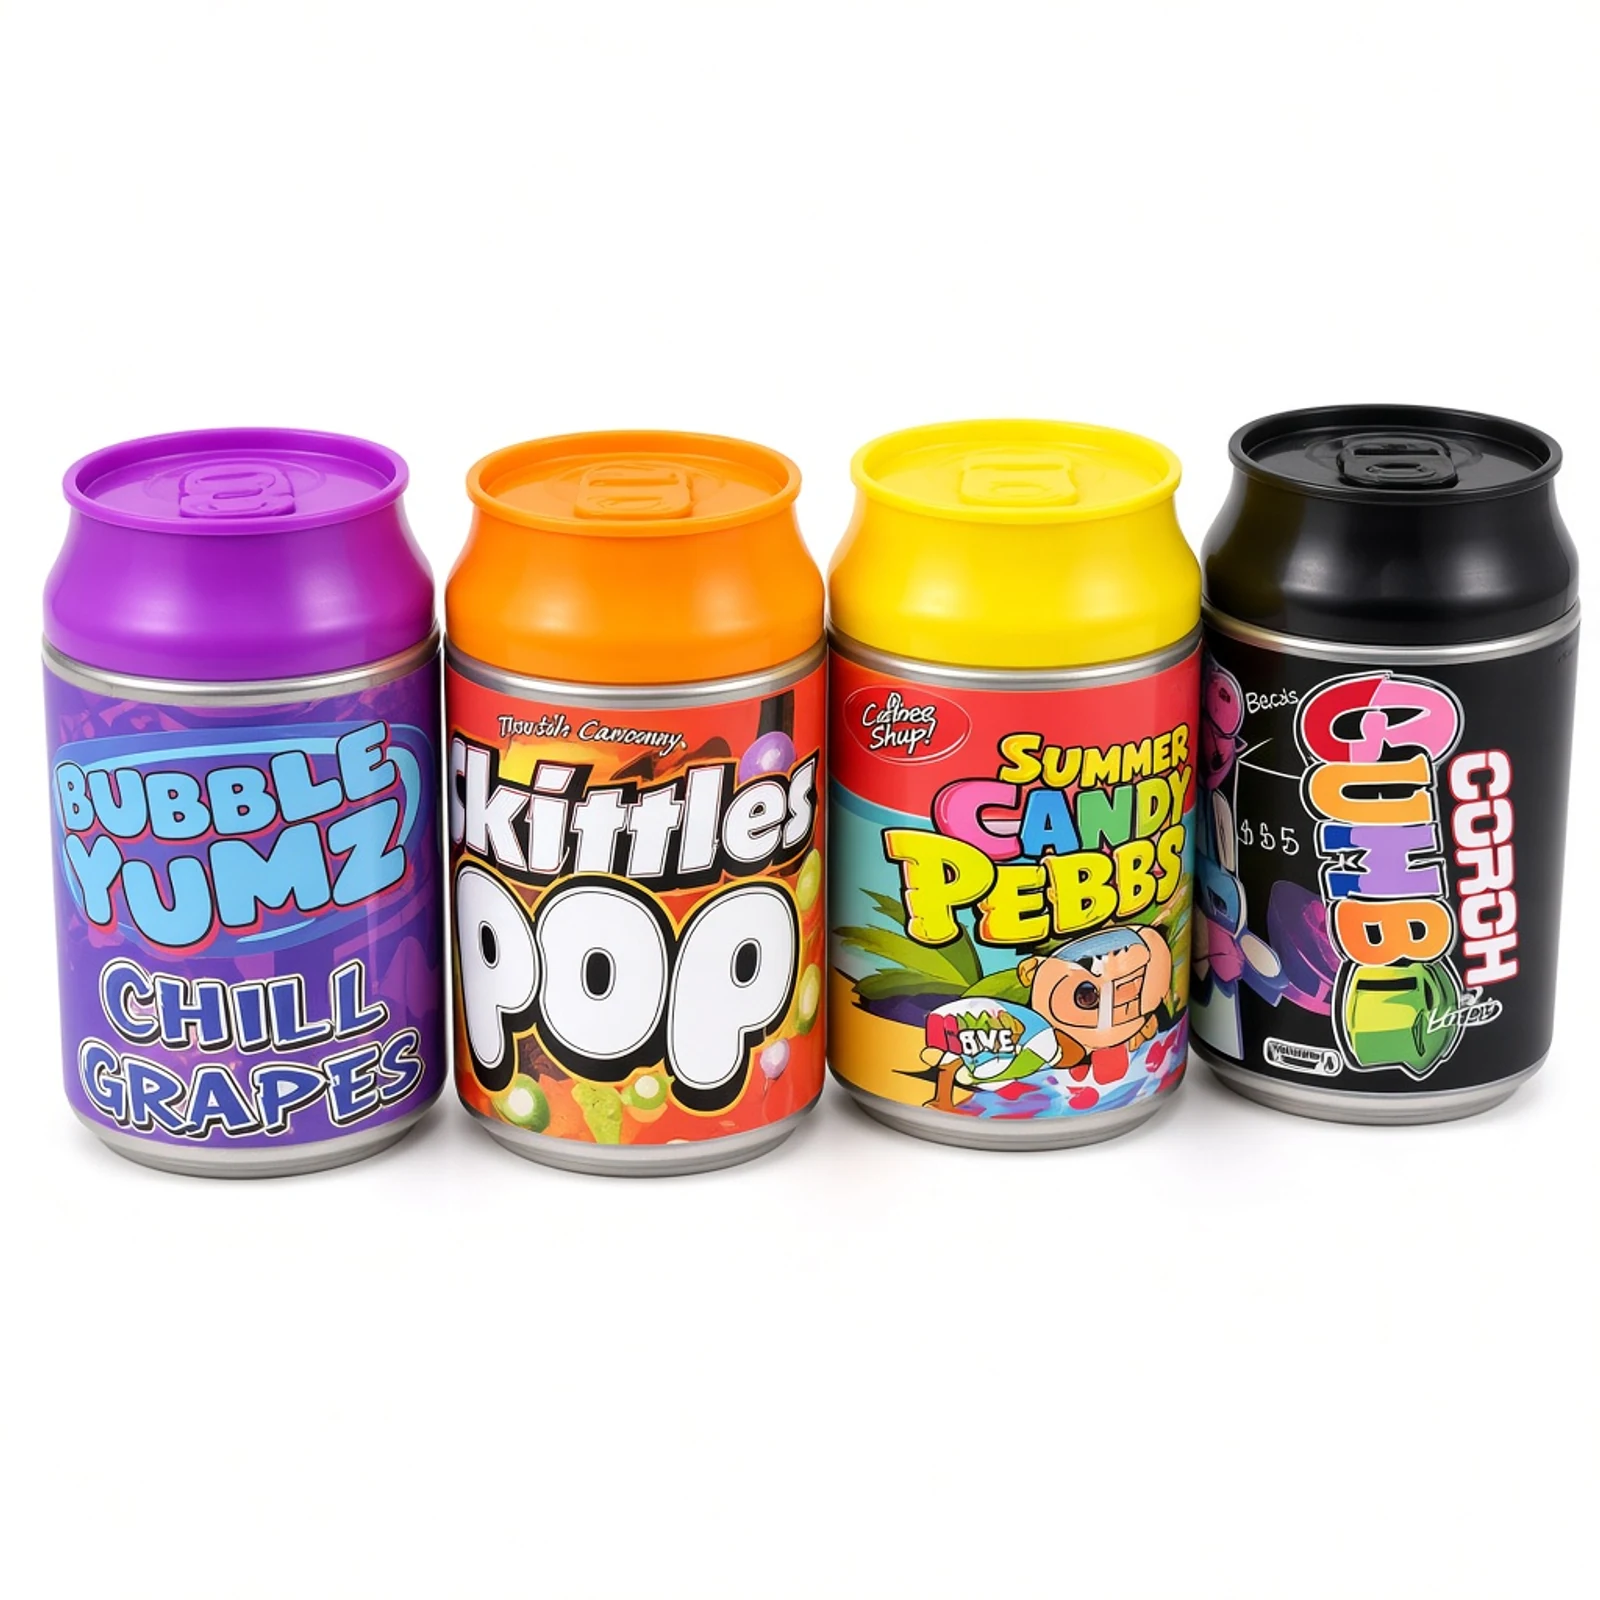
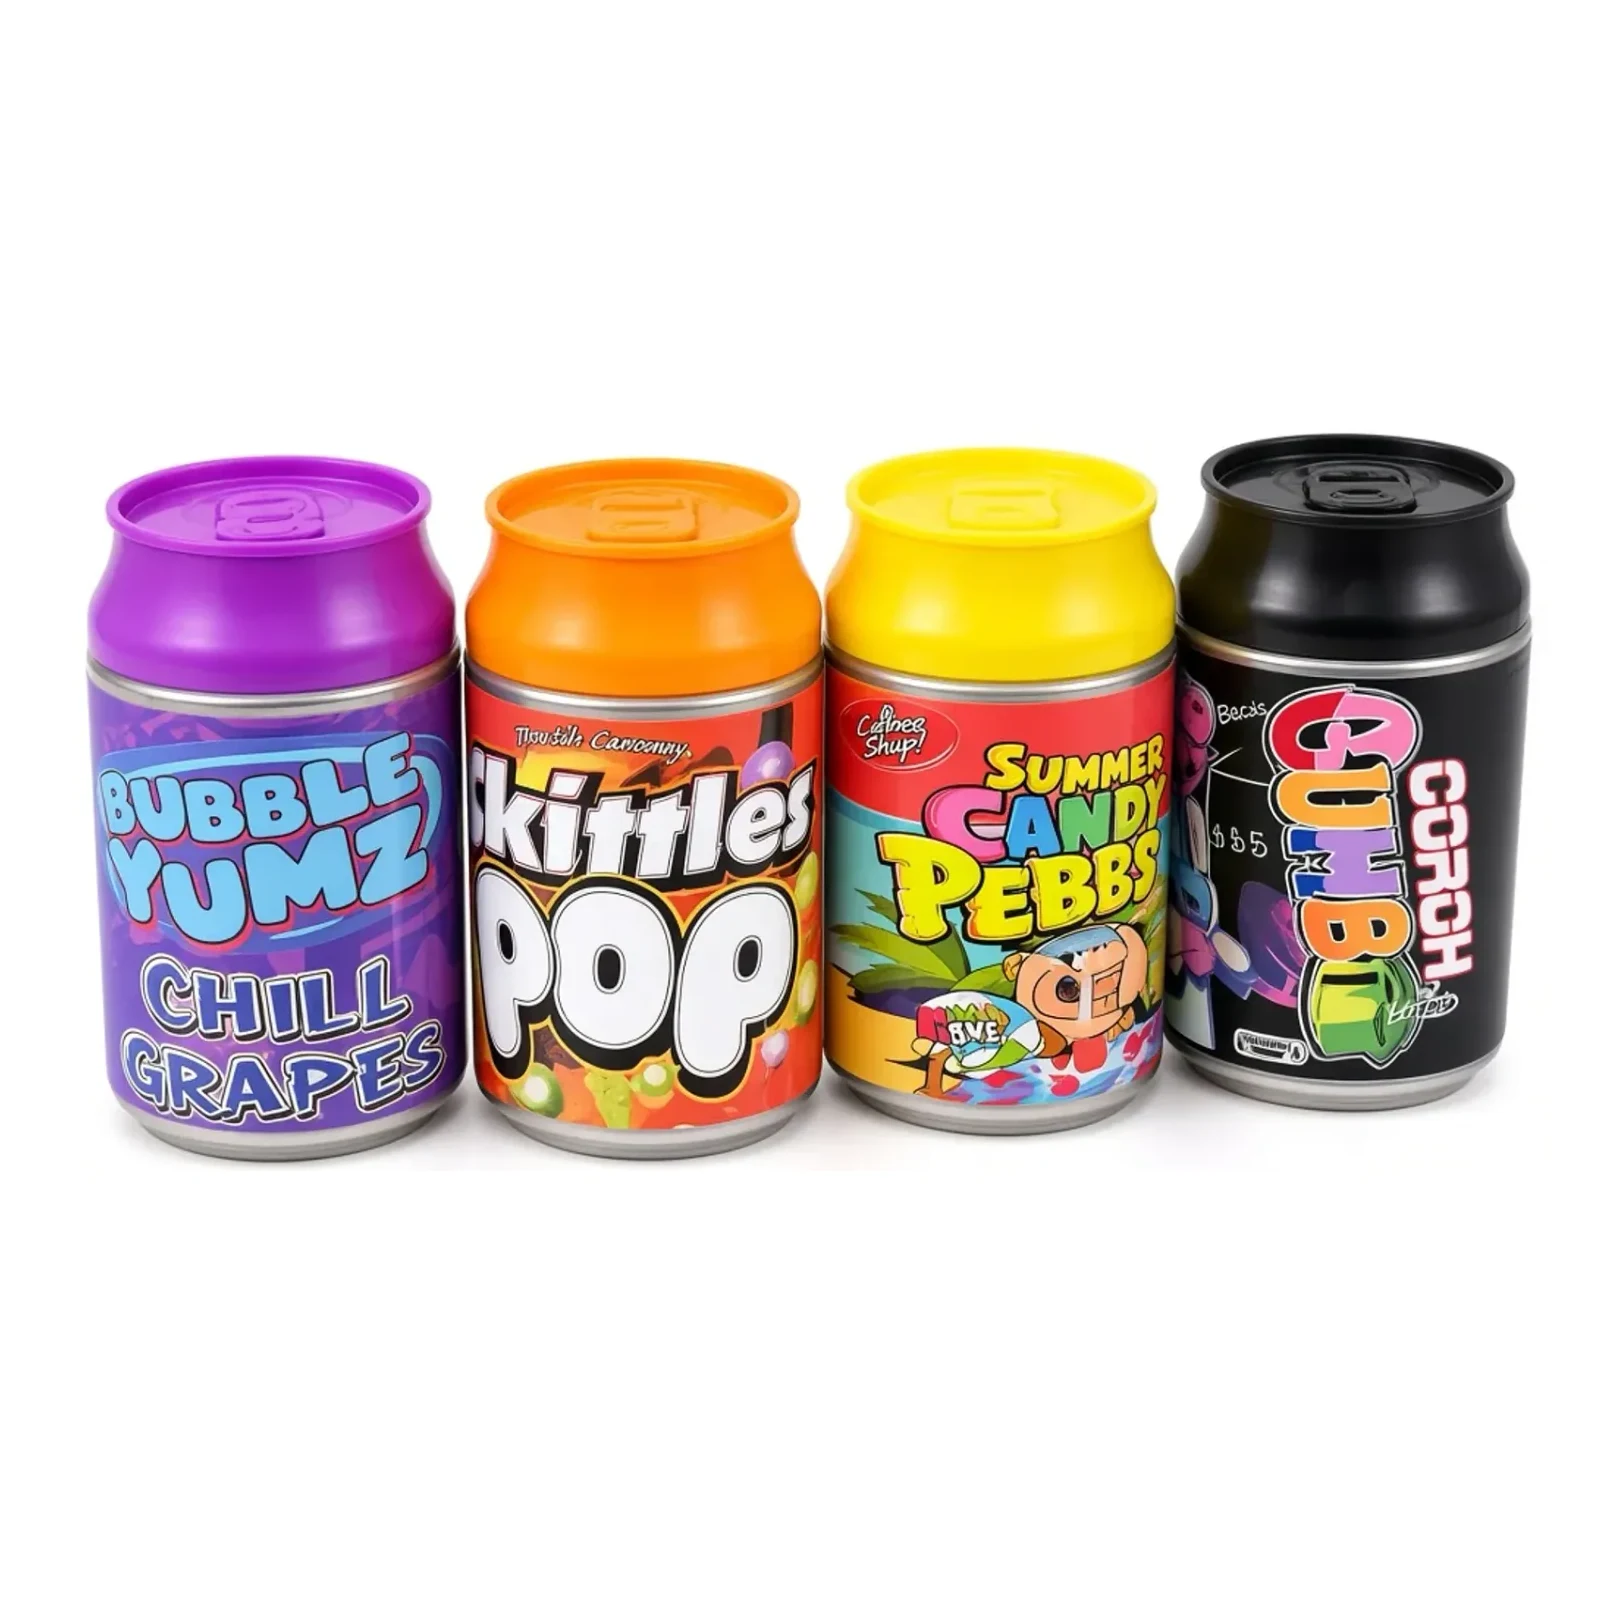
Make shop product photos fill the frame and add a prominent Stripe Pay Now button.

Changed region(s): [[0.0, 0.25, 1.0, 0.75]]

diff --git a/src/app/checkout/page.tsx b/src/app/checkout/page.tsx
@@ -9,6 +9,7 @@ import { useCart } from "@/context/CartContext";
 import { formatPrice } from "@/lib/utils";
 import { productImageClass } from "@/lib/product";
 import { whatsappOrderNumber } from "@/data/social";
+import { STRIPE_PAYMENT_LINK } from "@/lib/payments";
 
 export default function CheckoutPage() {
   const { items, subtotal, clearCart } = useCart();
@@ -65,6 +66,9 @@ export default function CheckoutPage() {
       total,
     };
     sessionStorage.setItem("calipacks-last-order", JSON.stringify(order));
+    if (STRIPE_PAYMENT_LINK) {
+      window.open(STRIPE_PAYMENT_LINK, "_blank", "noopener,noreferrer");
+    }
     clearCart();
     router.push("/checkout/success");
   };
@@ -174,11 +178,17 @@ export default function CheckoutPage() {
             <button
               type="submit"
               disabled={submitting}
-              className="w-full flex items-center justify-center gap-2 px-6 py-4 bg-brand-600 text-white font-semibold rounded-xl hover:bg-brand-500 transition-colors"
+              className="w-full flex items-center justify-center gap-2 px-6 py-4 rounded-xl bg-gradient-to-r from-[#635BFF] via-[#7A73FF] to-brand-600 text-white font-black shadow-[0_10px_28px_rgba(99,91,255,0.4)] hover:brightness-110 transition"
             >
               <CreditCard className="w-5 h-5" />
-              {submitting ? "Placing order…" : "Place order online"}
+              {submitting ? "Processing…" : "Pay Now"}
+              <span className="rounded-md bg-white/15 px-1.5 py-0.5 text-[10px] font-black tracking-wide">
+                Stripe
+              </span>
             </button>
+            <p className="text-center text-xs font-semibold text-surface-800/45">
+              Secure card checkout with Stripe.
+            </p>
 
             <a
               href={whatsappHref}

diff --git a/src/components/payments/PayNowButton.tsx b/src/components/payments/PayNowButton.tsx
@@ -1,0 +1,43 @@
+import Link from "next/link";
+import { CreditCard } from "lucide-react";
+import { cn } from "@/lib/utils";
+import { STRIPE_PAYMENT_LINK } from "@/lib/payments";
+
+interface PayNowButtonProps {
+  href?: string;
+  className?: string;
+  compact?: boolean;
+}
+
+export function PayNowButton({
+  href,
+  className,
+  compact = false,
+}: PayNowButtonProps) {
+  const target = href || STRIPE_PAYMENT_LINK || "/checkout";
+  const external = target.startsWith("http");
+
+  return (
+    <Link
+      href={target}
+      {...(external ? { target: "_blank", rel: "noopener noreferrer" } : {})}
+      className={cn(
+        "pay-now-btn inline-flex items-center justify-center gap-2 rounded-xl bg-gradient-to-r from-[#635BFF] via-[#7A73FF] to-brand-600 font-black text-white shadow-[0_10px_28px_rgba(99,91,255,0.4)] transition hover:brightness-110 hover:-translate-y-0.5",
+        compact ? "px-3 py-2.5 text-xs sm:px-3.5 sm:text-sm" : "w-full px-6 py-4 text-base",
+        className
+      )}
+      aria-label="Pay now with Stripe"
+    >
+      <CreditCard className={compact ? "h-4 w-4 shrink-0" : "h-5 w-5 shrink-0"} />
+      <span>Pay Now</span>
+      <span
+        className={cn(
+          "rounded-md bg-white/15 px-1.5 font-black tracking-wide text-white/95",
+          compact ? "py-0.5 text-[9px]" : "py-0.5 text-[10px]"
+        )}
+      >
+        Stripe
+      </span>
+    </Link>
+  );
+}

diff --git a/src/app/cart/page.tsx b/src/app/cart/page.tsx
@@ -6,6 +6,7 @@ import { Minus, Plus, Trash2, ShoppingBag, ArrowRight } from "lucide-react";
 import { useCart } from "@/context/CartContext";
 import { formatPrice } from "@/lib/utils";
 import { productImageClass, productUnit } from "@/lib/product";
+import { PayNowButton } from "@/components/payments/PayNowButton";
 
 export default function CartPage() {
   const { items, subtotal, updateQuantity, removeItem, clearCart } = useCart();
@@ -161,12 +162,7 @@ export default function CartPage() {
                   <dd className="font-bold text-lg">{formatPrice(total)}</dd>
                 </div>
               </dl>
-              <Link
-                href="/checkout"
-                className="w-full mt-6 px-6 py-4 bg-brand-600 text-white font-semibold rounded-xl hover:bg-brand-500 transition-colors flex items-center justify-center"
-              >
-                Proceed to Checkout
-              </Link>
+              <PayNowButton href="/checkout" className="mt-6" />
               <Link
                 href="/shop"
                 className="block text-center text-sm text-brand-700 hover:underline mt-4"

diff --git a/src/components/layout/Header.tsx b/src/components/layout/Header.tsx
@@ -6,6 +6,7 @@ import { Search, ShoppingBag, User, Menu, X, ChevronDown } from "lucide-react";
 import { mainNav } from "@/data/navigation";
 import { useCart } from "@/context/CartContext";
 import { Logo } from "@/components/layout/Logo";
+import { PayNowButton } from "@/components/payments/PayNowButton";
 import { cn } from "@/lib/utils";
 
 export function Header() {
@@ -82,6 +83,7 @@ export function Header() {
           </nav>
 
           <div className="flex items-center gap-1 sm:gap-2">
+            <PayNowButton compact className="!w-auto shrink-0 max-[380px]:px-2" />
             <button
               type="button"
               onClick={() => {
@@ -179,6 +181,9 @@ export function Header() {
             >
               My Account
             </Link>
+            <div className="px-4 pt-3">
+              <PayNowButton className="w-full" />
+            </div>
           </nav>
         </div>
       )}

diff --git a/src/components/home/CTASection.tsx b/src/components/home/CTASection.tsx
@@ -80,6 +80,12 @@ export function CTASection() {
               <ArrowRight className="w-4 h-4" />
             </Link>
             <Link
+              href="/checkout"
+              className="inline-flex items-center gap-2 px-6 py-3 bg-gradient-to-r from-[#635BFF] to-[#0A2540] text-white font-extrabold rounded-xl hover:brightness-110 transition-colors shadow-lg"
+            >
+              Pay Now
+            </Link>
+            <Link
               href="/custom-orders"
               className="btn-shine-white inline-flex items-center gap-2 px-6 py-3 font-extrabold rounded-xl text-black"
             >

diff --git a/src/lib/payments.ts b/src/lib/payments.ts
@@ -1,0 +1,9 @@
+/**
+ * Stripe Payment Link from Dashboard → Payment links → New.
+ * Add the URL as GitHub secret NEXT_PUBLIC_STRIPE_PAYMENT_LINK
+ * (Settings → Secrets and variables → Actions). Redeploy after saving.
+ */
+export const STRIPE_PAYMENT_LINK =
+  process.env.NEXT_PUBLIC_STRIPE_PAYMENT_LINK?.trim() || "";
+
+export const stripeEnabled = Boolean(STRIPE_PAYMENT_LINK);

diff --git a/src/app/globals.css b/src/app/globals.css
@@ -100,7 +100,7 @@
   .product-fit {
     object-fit: contain;
     object-position: center;
-    padding: 4%;
+    padding: 1%;
   }
 
   .logo-pulse {
